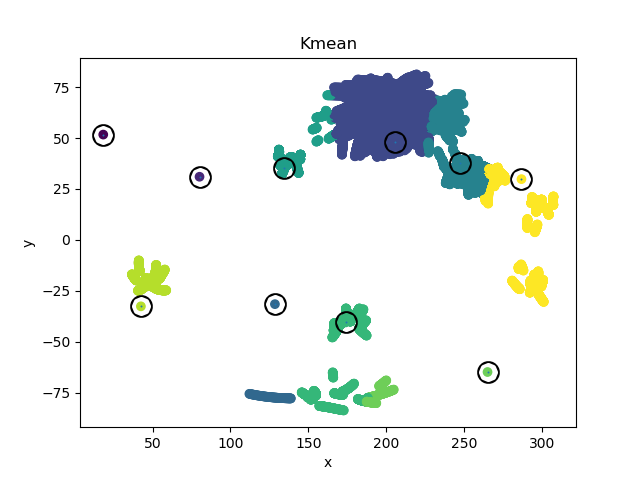
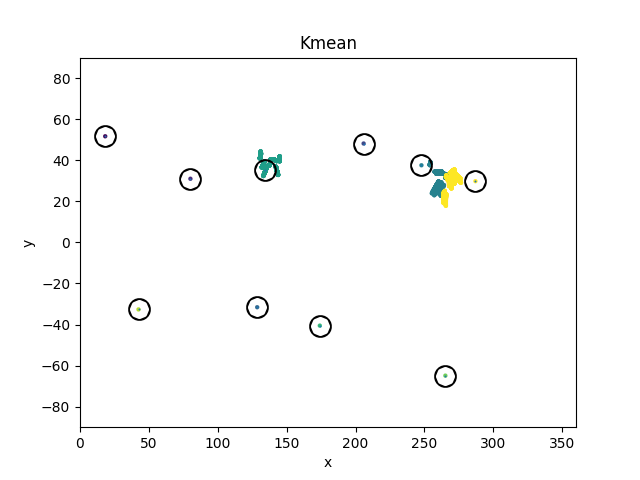
Changed plot limit

diff --git a/k-means/plot/kmean_plot.py b/k-means/plot/kmean_plot.py
@@ -6,8 +6,10 @@ centroids = pd.read_csv("../centroids.txt", delimiter = ',', names =['x', 'y'])
 
 x = data['x'].to_numpy()
 y = data['y'].to_numpy()
+
 color = data['cluster']
-plt.scatter(x, y, c=color)
+
+plt.scatter(x, y, c=color, marker=".", linewidth=0.1)
 
 centroids_x = centroids['x'].to_numpy()
 centroids_y = centroids['y'].to_numpy()
@@ -17,4 +19,10 @@ plt.scatter(centroids_x, centroids_y, s=2, c=None, edgecolors="black", marker="o
 plt.title('Kmean')
 plt.xlabel('x')
 plt.ylabel('y')
+
+plt.xlim(0, 360)
+plt.ylim(-90, 90)
+
 plt.savefig('scatter_plot.png')
+
+plt.show()
